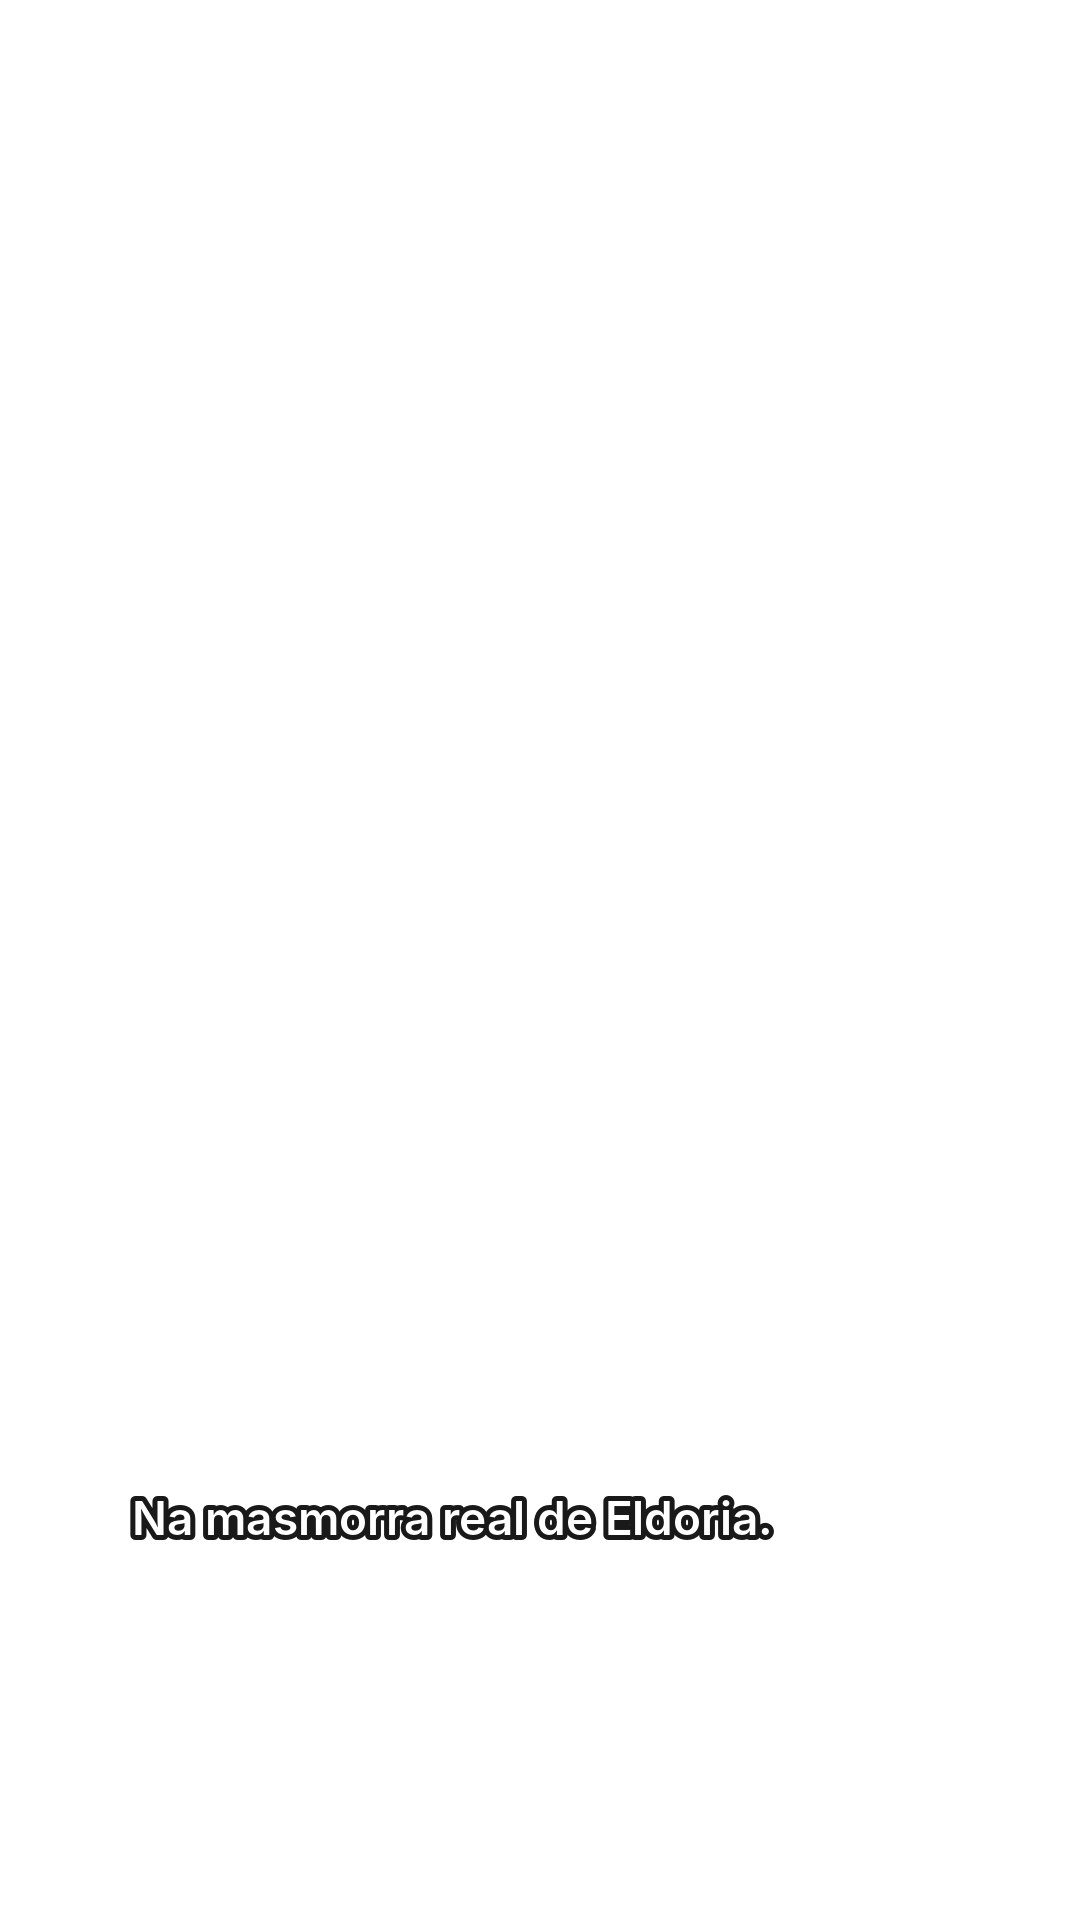
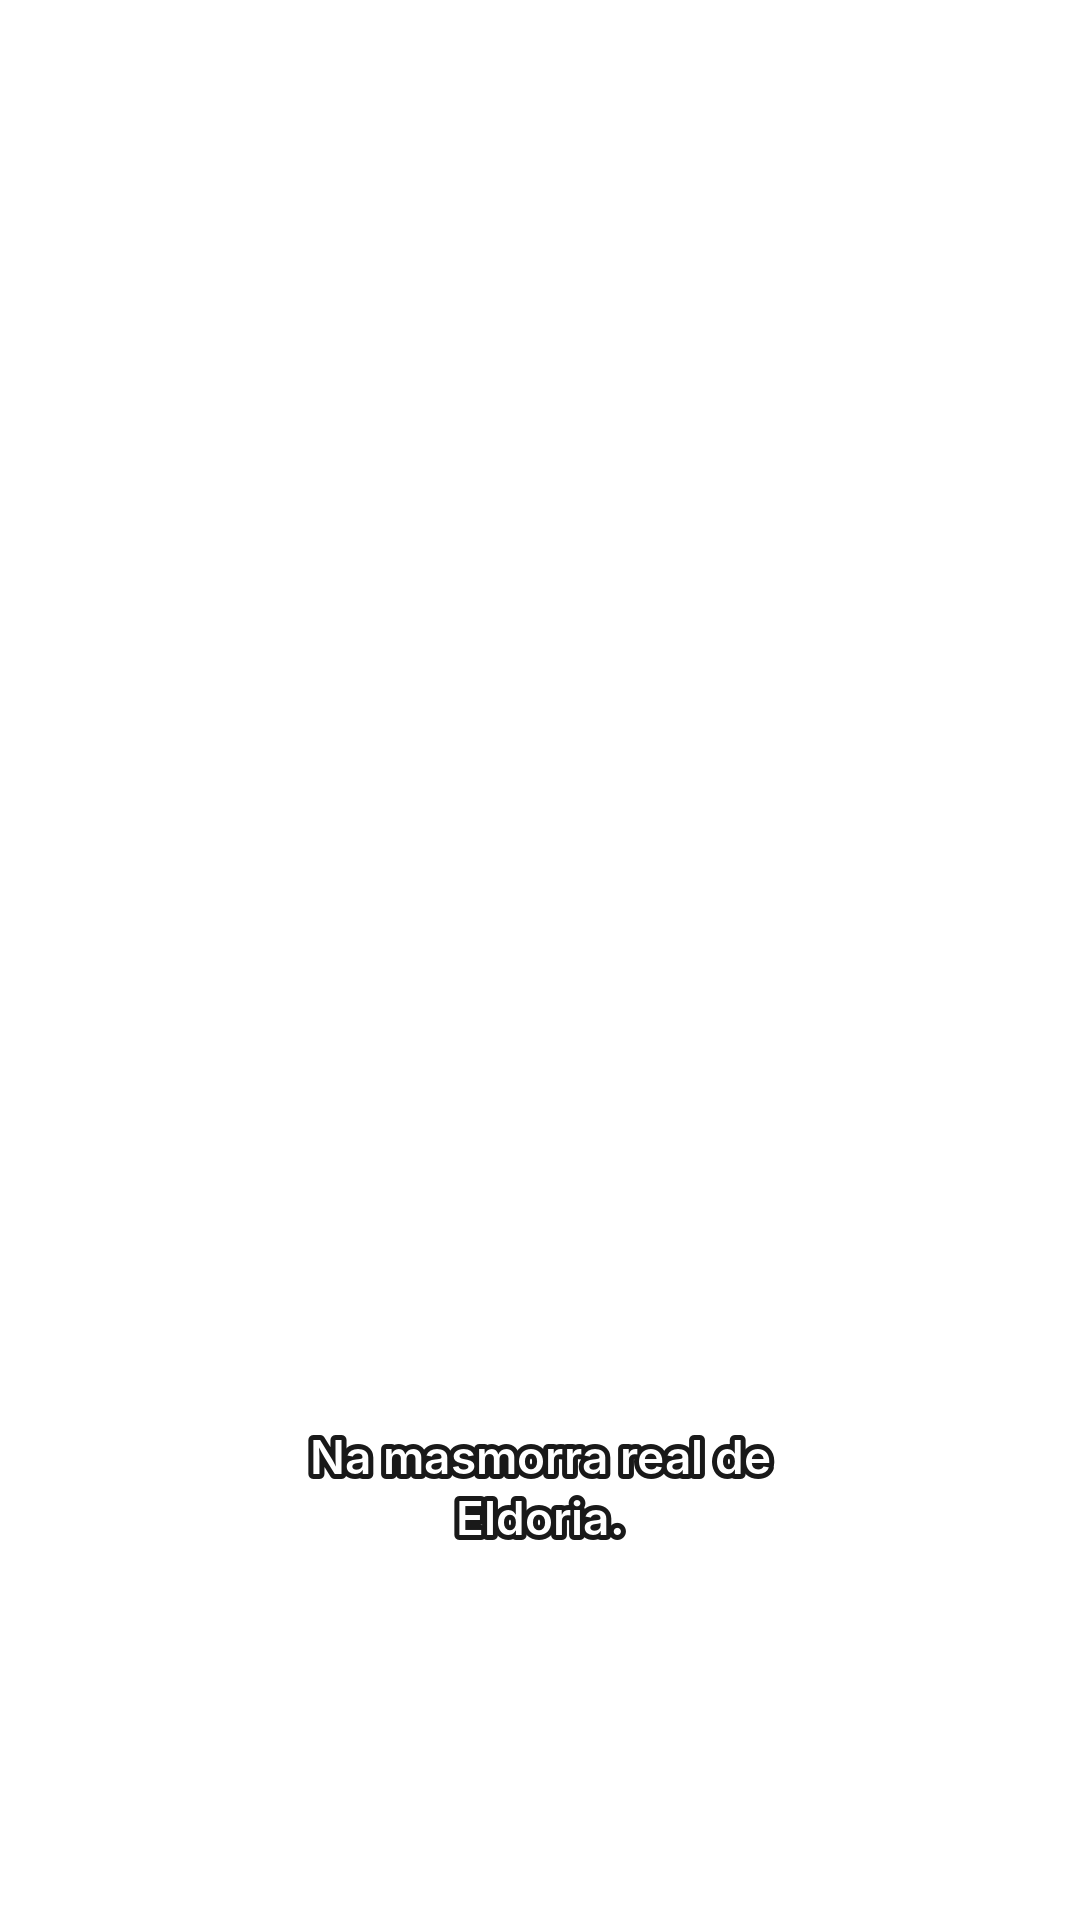
tres-herdeiras: centred subtitles, production rules from ep01 feedback
Claude-Session: https://claude.ai/code/session_01SkxnoUVHBjhesDyUBQzQxX

Changed region(s): [[0.1222, 0.75, 0.7333, 0.8125]]

diff --git a/projetos/tres-herdeiras/ep01/montagem/legendas.py b/projetos/tres-herdeiras/ep01/montagem/legendas.py
@@ -1,9 +1,10 @@
-"""Legendas queimadas (Inter) como PNGs 1080x1920, dentro de 8%–76% da largura para não entrar na zona dos botões."""
+"""Legendas queimadas (Inter) como PNGs 1080x1920, SEMPRE centralizadas no eixo do quadro (x=540).
+Largura máxima 640 px (220–860): centralizada e ainda fora da zona dos botões (nada à direita de 80% = 864 px entre 35% e 95% da altura)."""
 import json, sys
 from PIL import Image, ImageDraw, ImageFont
 W, H = 1080, 1920
 FT = ImageFont.truetype("/usr/share/fonts/opentype/inter/Inter-SemiBold.otf", 46)
-X0, X1, YB = 86, 820, 1560
+X0, X1, YB = 220, 860, 1560
 def quebra(txt):
     d = ImageDraw.Draw(Image.new("L", (1, 1))); linhas, atual = [], ""
     for p in txt.split():

diff --git a/projetos/tres-herdeiras/REGRAS-PRODUCAO.md b/projetos/tres-herdeiras/REGRAS-PRODUCAO.md
@@ -1,0 +1,31 @@
+# As Três Herdeiras do Apocalipse · regras de produção (aprendidas episódio a episódio)
+
+Ler antes de cada episódio, junto com a bíblia (seções 13, 14 e 15). Valem para TODOS os episódios.
+
+## Legendas
+- **Sempre centralizadas** no eixo do quadro (x = 540 em 1080x1920). Nunca deslocar para um lado. (pedido do usuário após o Ep. 01)
+- Largura máxima 640 px (220–860), para continuar fora da zona dos botões da PrendeFlix
+  (nada à direita de 80% = 864 px entre 35% e 95% da altura). Quebrar em mais linhas em vez de alargar.
+- Fonte Inter SemiBold 46 px, branca com contorno preto; base da última linha em y ≈ 1560.
+- Gerador: `ep01/montagem/legendas.py` (já corrigido).
+
+## Personagens e cenário: sem atravessar objetos
+- Nenhum personagem pode atravessar grades, paredes ou portas. No Ep. 01, na primeira aparição da Ayla,
+  ela surge "atravessando" a grade da cela. (registrado pelo usuário após o Ep. 01)
+- Nos prompts: dizer de que lado da grade cada um está ("Ayla is INSIDE her cell, behind the bars; the bars are
+  in front of her and never pass through her body") e pedir "no clipping through bars or walls".
+- Conferir isso em todas as folhas de quadros antes de entregar.
+
+## Continuidade de figurino e cena (falhas aceitas no Ep. 01 que não podem voltar)
+- Bainha do Gabriel VAZIA até o ep. 18: "empty scabbard, no hilt, no sword" em todo prompt com ele.
+- Gabriel sempre de botas; Ayla prisioneira sempre descalça (eps. 01–03).
+- Olhos da Ayla azul-acinzentados normais, sem brilho.
+- Guarda entra pela esquerda (bíblia, seção 13).
+- Sem brasões reais (flor-de-lis etc.) enquanto o brasão de Eldoria estiver em aberto.
+
+## Áudio
+- Voz do Sistema: Higgsfield elevenlabs_v4_turbo, voz "Vesper" (c3204739-4084-41a3-9dc5-c805b307ec18), mesma em todos os episódios.
+- As falas dos personagens vêm do próprio Seedance; o usuário confere a pronúncia de ouvido.
+
+## Créditos
+- Acertar de primeira; nenhuma refação sem consultar o usuário, com o custo dito antes.
